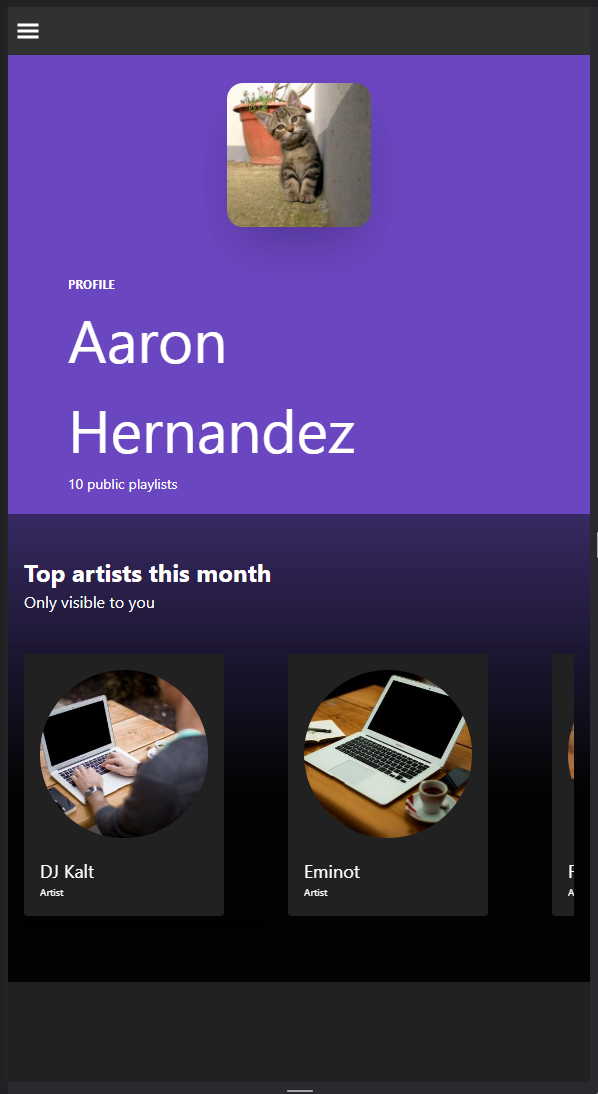
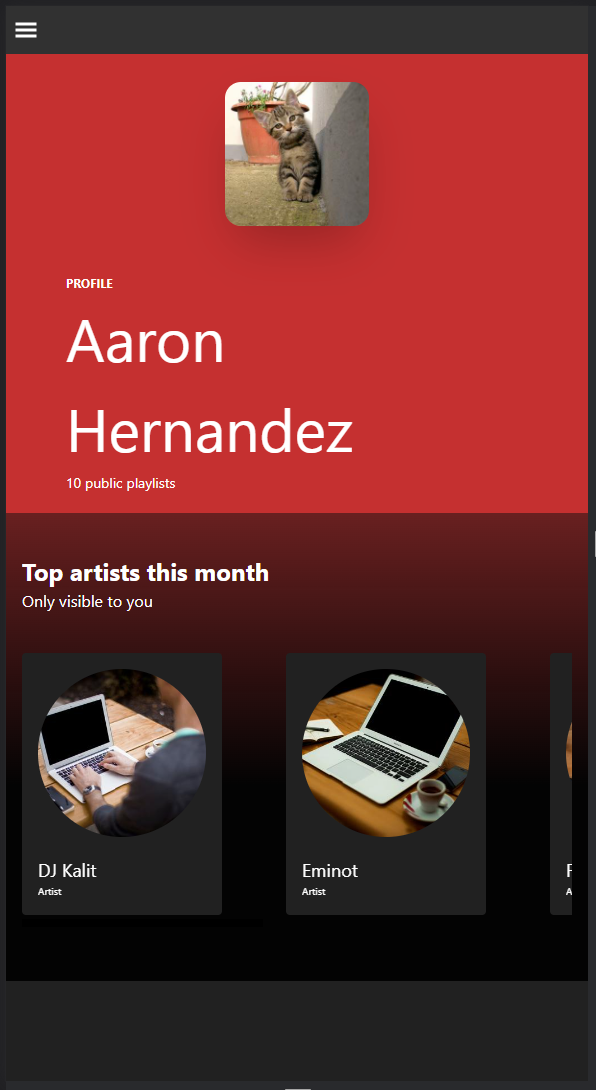
chore: change readme layout

diff --git a/pages/index.tsx b/pages/index.tsx
@@ -18,7 +18,7 @@ const Home = ({ artists }: { artists: Artist[] }) => {
   const { data: user } = useGetUser();
   return (
     <GradientLayout
-      color="purple"
+      color="red"
       title={`${user?.firstName ?? ""} ${user?.lastName ?? ""}`}
       subtitle="profile"
       description={`${user?.playlistsCount} public playlists`}

diff --git a/README.md b/README.md
@@ -2,8 +2,14 @@
 
 ### Preview
 
-![home preview](./docs/home.PNG)
-![playlist preview](./docs/playlist.PNG)
+<center>
+<table >
+  <tr >
+    <td valign="top"><img src="./docs/home.PNG" width="300px" /></td>
+    <td valign="top"><img src="./docs/playlist.PNG"  width="300px"  /></td>
+  </tr>
+</table>
+</center>
 
 First, install the dependencies
 
